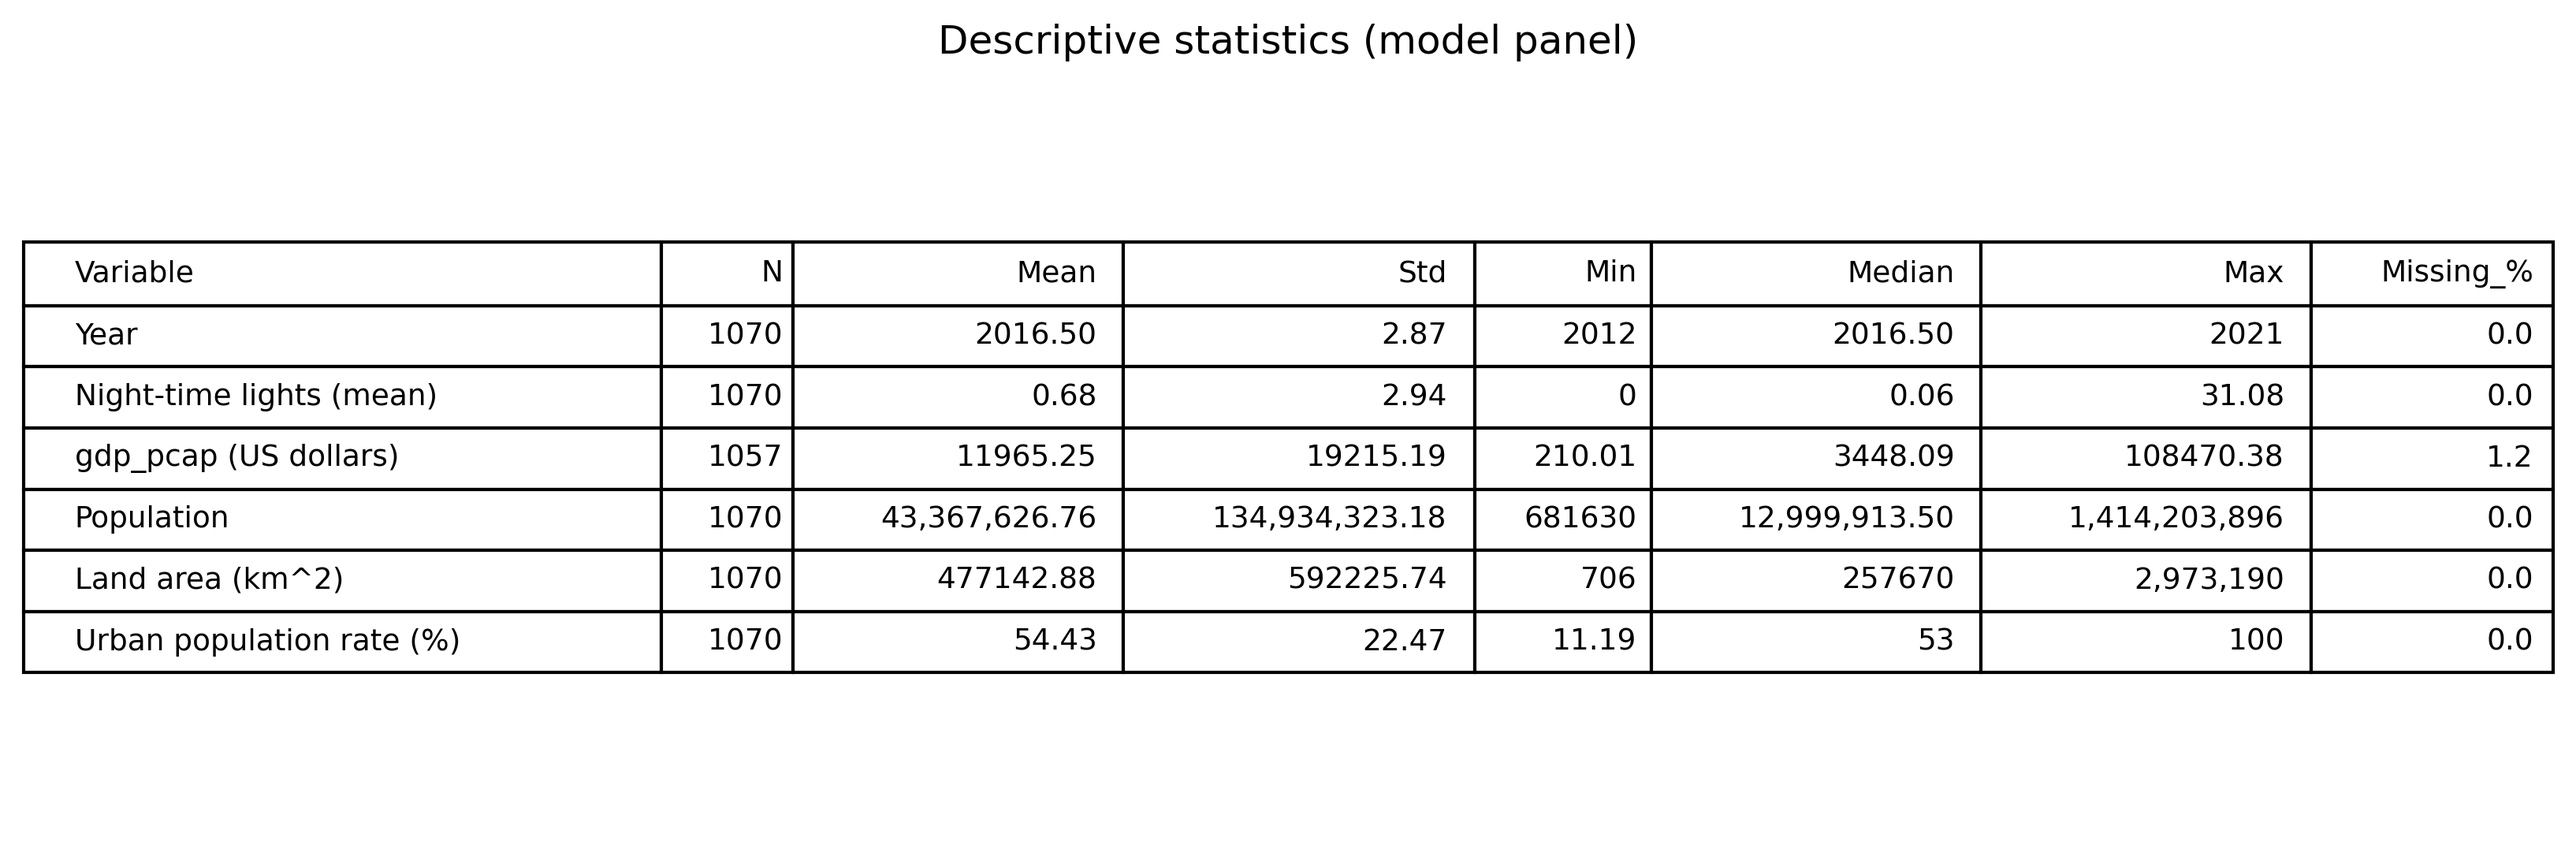
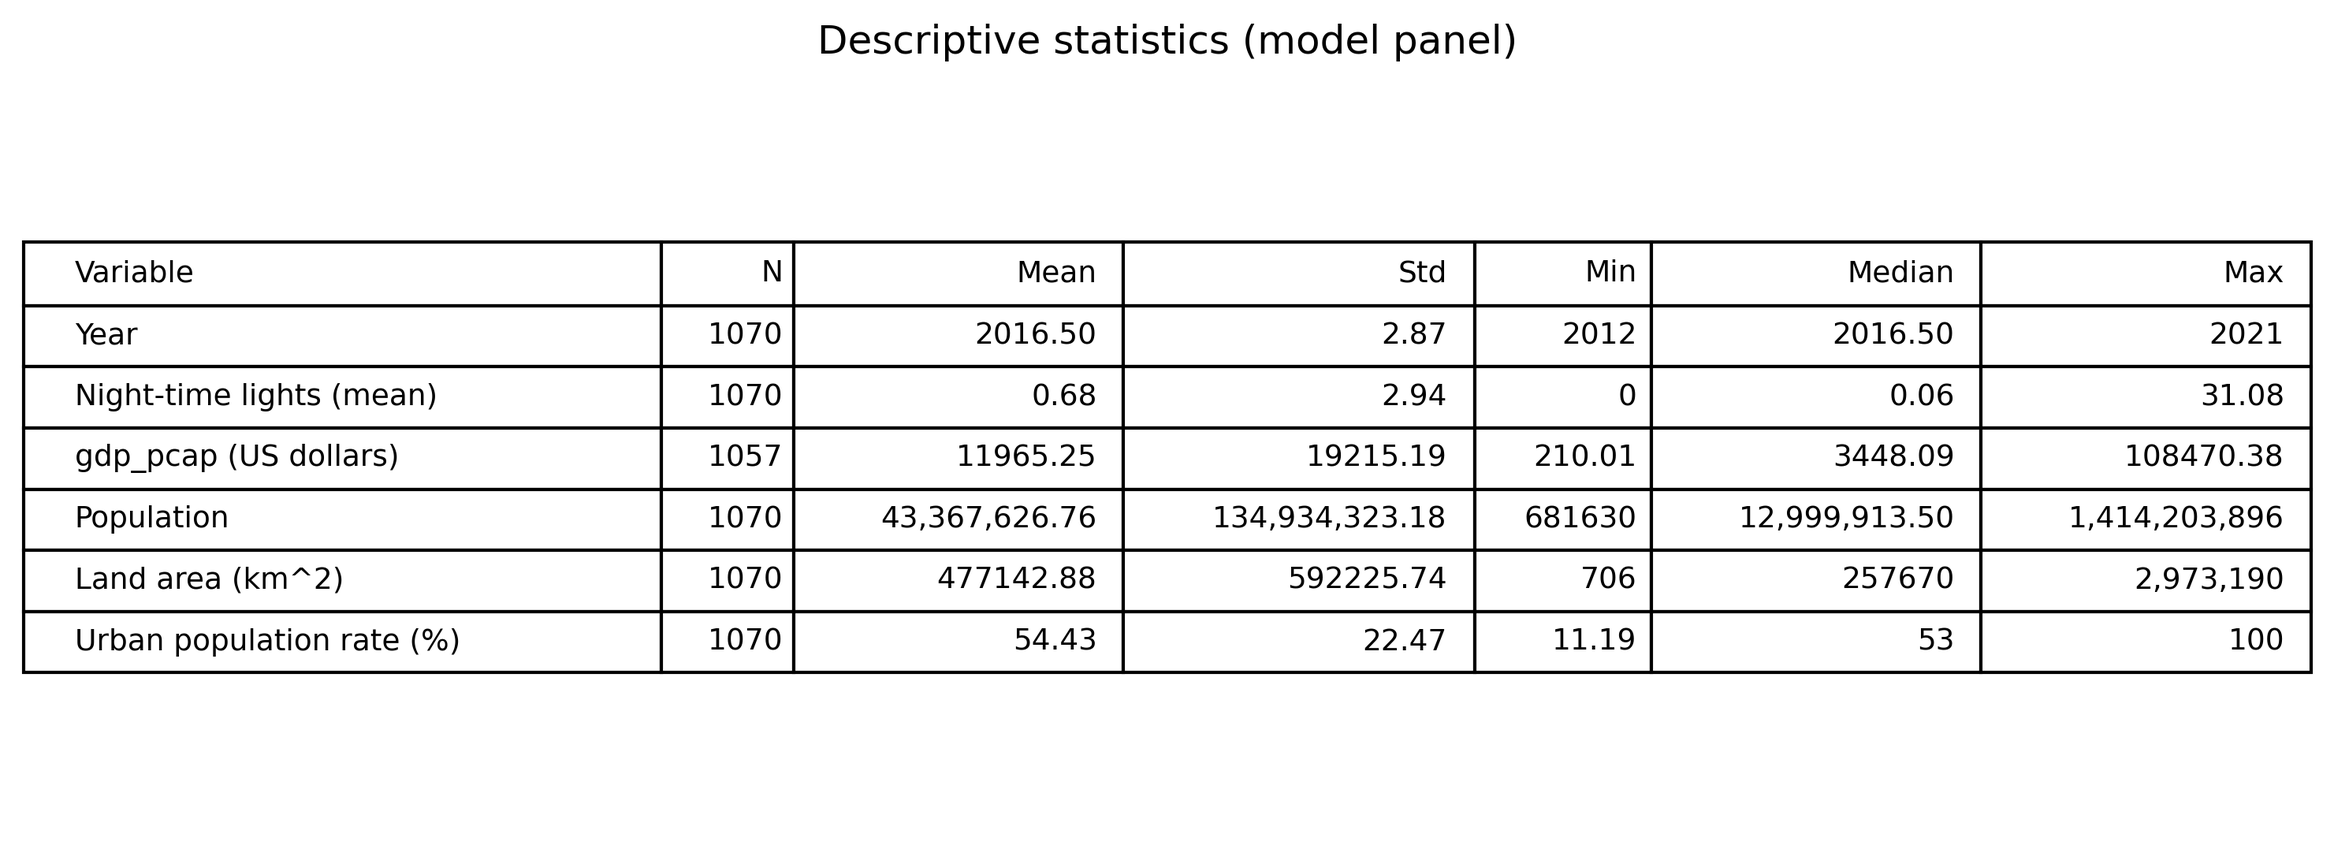
README Update with descriptive statistics and visualization

diff --git a/notebooks/desc_stats.py b/notebooks/desc_stats.py
@@ -19,7 +19,7 @@ Scope
 -----
 - Numeric variables only.
 - Statistics reported per variable: N (non-missing count), mean, standard
-  deviation, minimum, median, maximum, and missingness rate (%).
+  deviation, minimum, median, and maximum.
 
 Design choices
 --------------
@@ -53,9 +53,8 @@ def prettify_variable_names(tab: pd.DataFrame) -> pd.DataFrame:
     """
     Replace raw variable identifiers with report-friendly labels.
 
-    This mapping is intended to improve the interpretability of the descriptive
-    statistics table in the final report. The GDP unit is indicated using a
-    dollar sign in the label rather than spelling out the currency textually.
+    The GDP unit is indicated using a dollar sign in the label rather than
+    spelling out the currency textually.
     """
     name_map = {
         "year": "Year",
@@ -92,11 +91,6 @@ def make_desc_table(df: pd.DataFrame, exclude: list[str]) -> pd.DataFrame:
     -------
     pd.DataFrame
         Table indexed by variable name and containing standard descriptive statistics.
-
-    Notes
-    -----
-    The missingness rate is computed relative to the full sample size (len(df)),
-    rather than relative to the non-missing count.
     """
     # Exclude non-analytic columns when requested (e.g., country identifiers).
     df2 = df.drop(columns=[c for c in exclude if c in df.columns], errors="ignore")
@@ -116,12 +110,11 @@ def make_desc_table(df: pd.DataFrame, exclude: list[str]) -> pd.DataFrame:
             "Min": num.min(),
             "Median": num.median(),
             "Max": num.max(),
-            "Missing_%": (1 - num.count() / len(df)) * 100,
         }
     )
 
     # Apply report-oriented rounding to reduce visual clutter.
-    tab = tab.round({"Mean": 2, "Std": 2, "Min": 2, "Median": 2, "Max": 2, "Missing_%": 1})
+    tab = tab.round({"Mean": 2, "Std": 2, "Min": 2, "Median": 2, "Max": 2})
     tab.index.name = "Variable"
 
     # Replace internal variable identifiers with report-friendly labels.
@@ -145,8 +138,7 @@ def save_table_png(tab: pd.DataFrame, png_path: Path, title: str | None = None) 
 
     Notes
     -----
-    The function includes formatting steps aimed at producing a publication-ready
-    table:
+    The function is designed to produce a report-ready table:
     - variable labels are wrapped and left-aligned to avoid clipping;
     - numeric columns are right-aligned for readability;
     - large magnitudes are formatted with thousands separators to prevent
@@ -174,7 +166,6 @@ def save_table_png(tab: pd.DataFrame, png_path: Path, title: str | None = None) 
         Format numeric values for compact, readable tabular display.
 
         - N is formatted as an integer.
-        - Missing_% is formatted to one decimal.
         - Large magnitudes use thousands separators to enhance legibility.
         """
         if pd.isna(x):
@@ -186,9 +177,6 @@ def save_table_png(tab: pd.DataFrame, png_path: Path, title: str | None = None) 
 
         if colname == "N":
             return f"{int(round(x))}"
-
-        if colname.startswith("Missing"):
-            return f"{x:.1f}"
 
         # Thousands separators are applied to large magnitudes to reduce visual crowding.
         if abs(x) >= 1_000_000:
@@ -329,3 +317,4 @@ def main() -> None:
 
 if __name__ == "__main__":
     main()
+

diff --git a/README.md b/README.md
@@ -84,6 +84,7 @@ All dependencies are pinned in `requirements.txt`. Core packages include:
 
 ## Important Notes
 - **Python version requirement:** This project must be run with **Python 3.11.9** (or an equivalent version that supports `rasterio`). Using an incompatible Python version may prevent `rasterio` from installing or running, and the pipeline will fail.
+- **Raw data:** The file named "raw" containing all the raw data before processing is not included in the repo, you must download it from the dropbox link I sent and add it to the "data" folder. Otherwise the code will not run properly.
 - **Runtime:** A full execution of `main.py` takes approximately **10 minutes** to produce all outputs (depending on hardware).
 - **Data availability constraint:** Because the locally available night-time lights data cover **2012–2021**, the Eritrea GDP-per-capita estimates are limited to this period and cannot be extended to **2024** within the current setup.
 
